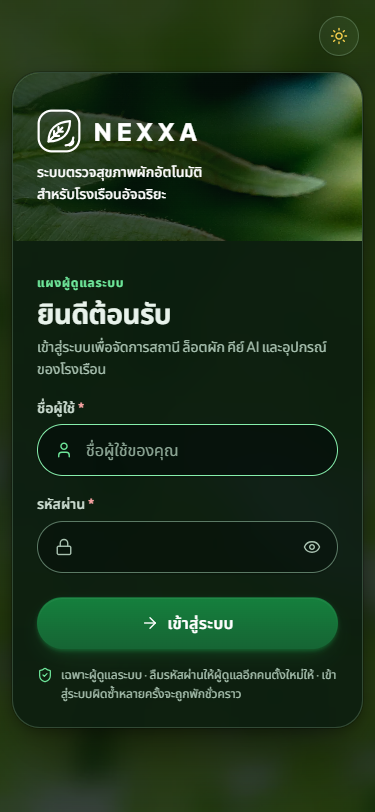
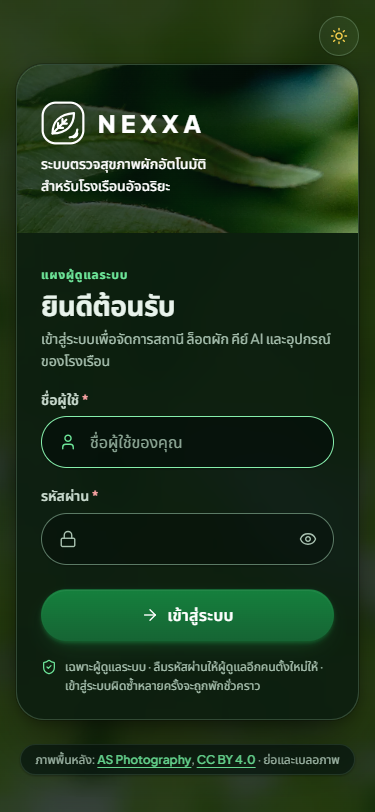
fix: visible CC BY photo credit on every page, 3:1 input borders, theme-color at first paint

diff --git a/server/app/web/static/css/nexxa.css b/server/app/web/static/css/nexxa.css
@@ -57,6 +57,7 @@
   --sidebar-w: 264px;
   --topbar-h: 64px;
   --shell-gap: 16px;
+  --credit-h: 2.75rem;  /* photo credit line under every layout */
   --content-max: 1200px;
   --z-sticky: 20;
   --z-toast: 50;
@@ -79,7 +80,7 @@
   --color-muted: rgba(16, 72, 40, 0.06);
   --color-muted-foreground: #3A5043;
   --color-subtle-foreground: #263C2F;
-  --color-border: #7E9C88;
+  --color-border: #6B8A75;
   --color-destructive: #B91C1C;
   --color-on-destructive: #FFFFFF;
   --color-ring: #166534;
@@ -606,9 +607,22 @@ html:not([data-theme]) .theme-toggle { display: none; }
 .auth-split .btn--primary { min-height: 52px; margin-top: var(--space-sm); letter-spacing: 0.02em; }
 .auth-split .alert { border-radius: var(--radius-lg); }
 
+/* Photo credit (CC BY 4.0): a small glass pill under every layout, never over content. */
+.site-credit { display: flex; justify-content: center; padding: 0 var(--space-md) calc(var(--space-md) + env(safe-area-inset-bottom, 0px)); }
+.page-admin .site-credit { margin-top: calc(-1 * var(--shell-gap) + var(--space-xs)); }
+.site-credit__text {
+  padding: 0.3rem 0.9rem; border-radius: var(--radius-full); text-align: center;
+  font-size: var(--text-xs); color: var(--color-muted-foreground);
+  background: var(--glass-bg-strong); border: 1px solid var(--glass-border); box-shadow: var(--shadow-sm);
+}
+.site-credit__text a { color: var(--color-accent-strong); font-weight: 600; }
+.site-credit__text a:hover { color: var(--color-link-hover); }
+/* Login/error: keep the card centred in the first screen and the credit just below it. */
+.page-auth .auth { min-height: calc(100vh - var(--credit-h)); min-height: calc(100dvh - var(--credit-h)); }
+
 /* 11. Admin shell ---------------------------------------------------------- */
 .shell {
-  display: grid; min-height: 100vh; min-height: 100dvh;
+  display: grid; min-height: calc(100vh - var(--credit-h)); min-height: calc(100dvh - var(--credit-h));
   grid-template-columns: var(--sidebar-w) minmax(0, 1fr);
   grid-template-rows: auto 1fr;
   grid-template-areas: "side top" "side main";
@@ -616,7 +630,7 @@ html:not([data-theme]) .theme-toggle { display: none; }
 }
 .sidebar {
   grid-area: side; position: sticky; top: var(--shell-gap);
-  height: calc(100vh - 2 * var(--shell-gap)); height: calc(100dvh - 2 * var(--shell-gap));
+  height: calc(100vh - 2 * var(--shell-gap) - var(--credit-h)); height: calc(100dvh - 2 * var(--shell-gap) - var(--credit-h));
   display: flex; flex-direction: column; gap: var(--space-lg);
   padding: var(--space-md);
   background: var(--glass-bg-strong);
@@ -779,7 +793,7 @@ html:not([data-theme]) .theme-toggle { display: none; }
   .page-title { font-size: var(--text-xl); }
   /* Login: one column, the photo becomes a header strip with the brand in a row; the switch sits above the card. */
   .auth__top { position: static; display: flex; justify-content: flex-end; padding: var(--space-md) var(--space-md) 0; }
-  .auth { min-height: 0; padding: var(--space-sm) var(--space-md) var(--space-lg); }
+  .auth, .page-auth .auth { min-height: 0; padding: var(--space-sm) var(--space-md) var(--space-lg); }
   .auth-split { grid-template-columns: minmax(0, 1fr); min-height: 0; padding: 0; }
   .auth-split__art { min-height: 168px; }
   .auth-split__art::after { background: linear-gradient(90deg, var(--art-scrim) 0%, var(--art-scrim) 62%, transparent 100%); }

diff --git a/server/app/web/templates/base_public.html b/server/app/web/templates/base_public.html
@@ -21,6 +21,10 @@
 <body class="{% block body_class %}{% endblock %}">
   <a class="skip-link" href="#main">ข้ามไปยังเนื้อหาหลัก</a>
   {% block body %}{% endblock %}
+  {#- CC BY 4.0 attribution for the background photo, shown wherever it is (see static/img/CREDITS.md). #}
+  <footer class="site-credit">
+    <p class="site-credit__text">ภาพพื้นหลัง: <a href="https://commons.wikimedia.org/wiki/File:Fresh_green_leaves_background_(55060632960).jpg" rel="noopener noreferrer">AS Photography</a>, <a href="https://creativecommons.org/licenses/by/4.0/" rel="noopener noreferrer">CC BY 4.0</a> · ย่อและเบลอภาพ</p>
+  </footer>
   {% block toasts %}{{ c.toast_region(flash) }}{% endblock %}
   {%- block scripts %}{% endblock %}
 </body>

diff --git a/server/app/web/static/js/theme-init.js b/server/app/web/static/js/theme-init.js
@@ -18,4 +18,7 @@
     theme = dark ? "dark" : "light";
   }
   document.documentElement.setAttribute("data-theme", theme);
+  // Browser chrome colour = the theme's --color-background (light / dark blocks in nexxa.css).
+  var meta = document.querySelector('meta[name="theme-color"]');
+  if (meta) meta.setAttribute("content", theme === "dark" ? "#0B1911" : "#E7F0E8");
 })();

diff --git a/server/tests/test_web_theme.py b/server/tests/test_web_theme.py
@@ -107,6 +107,22 @@ def test_login_page_keeps_its_behaviour_hooks(pages):
     assert 'src="/static/img/login-fern.webp"' in html and 'alt=""' in html
 
 
+CC_BY = "https://creativecommons.org/licenses/by/4.0/"
+PHOTO_PAGE = "https://commons.wikimedia.org/wiki/File:Fresh_green_leaves_background_(55060632960).jpg"
+
+
+def test_every_page_shows_the_background_photo_credit(pages):
+    # CC BY 4.0 needs visible attribution wherever the photo shows: login, admin, error pages.
+    for path, r in pages.items():
+        html = r.text
+        m = re.search(r'<footer class="site-credit">(.*?)</footer>', html, re.S)
+        assert m, path
+        credit = m.group(1)
+        assert "AS Photography" in credit and "CC BY 4.0" in credit and "ภาพพื้นหลัง" in credit, path
+        for url in (CC_BY, PHOTO_PAGE):
+            assert re.search(rf'<a href="{re.escape(url)}" rel="noopener noreferrer"', credit), (path, url)
+
+
 # --- CSS tokens ---------------------------------------------------------------
 
 def _blocks():
@@ -226,13 +242,33 @@ def _pairs(mode):
               ("primary button bottom", col("--color-on-accent"), col("--color-accent-deep")),
               ("danger button hover", col("--color-on-destructive"), col("--color-destructive")),
               ("code", col("--color-code-fg"), _over(col("--color-deep"), card)),
-              ("login art text", col("--art-text"), _over(col("--art-scrim"), WHITE))]
+              ("login art text", col("--art-text"), _over(col("--art-scrim"), WHITE)),
+              ("photo credit text", col("--color-muted-foreground"), panel),   # footer pill = strong glass
+              ("photo credit link", col("--color-accent-strong"), panel)]
     return pairs
+
+
+def _ui_pairs(mode):
+    """Non-text boundaries (WCAG 1.4.11, 3:1): input borders against the field fill."""
+    t = _theme(mode)
+    col = lambda name: _color(t[name], t)  # noqa: E731
+    ground = _over(col("--bg-scrim"), BLACK if mode == "light" else WHITE)
+    card = _over(col("--glass-bg"), _over(col("--glass-bg-soft"), ground))
+    panel = _over(col("--glass-bg-strong"), ground)
+    return [(f"input border on {name}", col("--color-border"), _over(col("--input-bg"), surf))
+            for name, surf in (("card", card), ("panel", panel))]
 
 
 @pytest.mark.parametrize("mode", ["light", "dark"])
 def test_text_contrast_is_aa_in_both_modes(mode):
     failures = [(name, round(contrast(fg, bg), 2)) for name, fg, bg in _pairs(mode) if contrast(fg, bg) < 4.5]
+    assert not failures, failures
+    assert any(name.startswith("photo credit") for name, _, _ in _pairs(mode))
+
+
+@pytest.mark.parametrize("mode", ["light", "dark"])
+def test_form_control_borders_reach_3_to_1(mode):
+    failures = [(name, round(contrast(fg, bg), 2)) for name, fg, bg in _ui_pairs(mode) if contrast(fg, bg) < 3]
     assert not failures, failures
 
 
@@ -267,6 +303,11 @@ def test_theme_scripts_are_safe_and_valid():
         assert "nexxa-theme" in src and "localStorage" in src and "try" in src and "catch" in src, name
     init = (STATIC / "js" / "theme-init.js").read_text(encoding="utf-8")
     assert "prefers-color-scheme" in init and "data-theme" in init
+    # theme-color meta follows the chosen mode at first paint, with each theme's --color-background
+    assert 'meta[name="theme-color"]' in init
+    for mode in ("light", "dark"):
+        assert _theme(mode)["--color-background"] in init, mode
+    assert "aria-pressed" in (STATIC / "js" / "theme-toggle.js").read_text(encoding="utf-8")
     node = shutil.which("node")
     if node is None:
         pytest.skip("node not installed")
